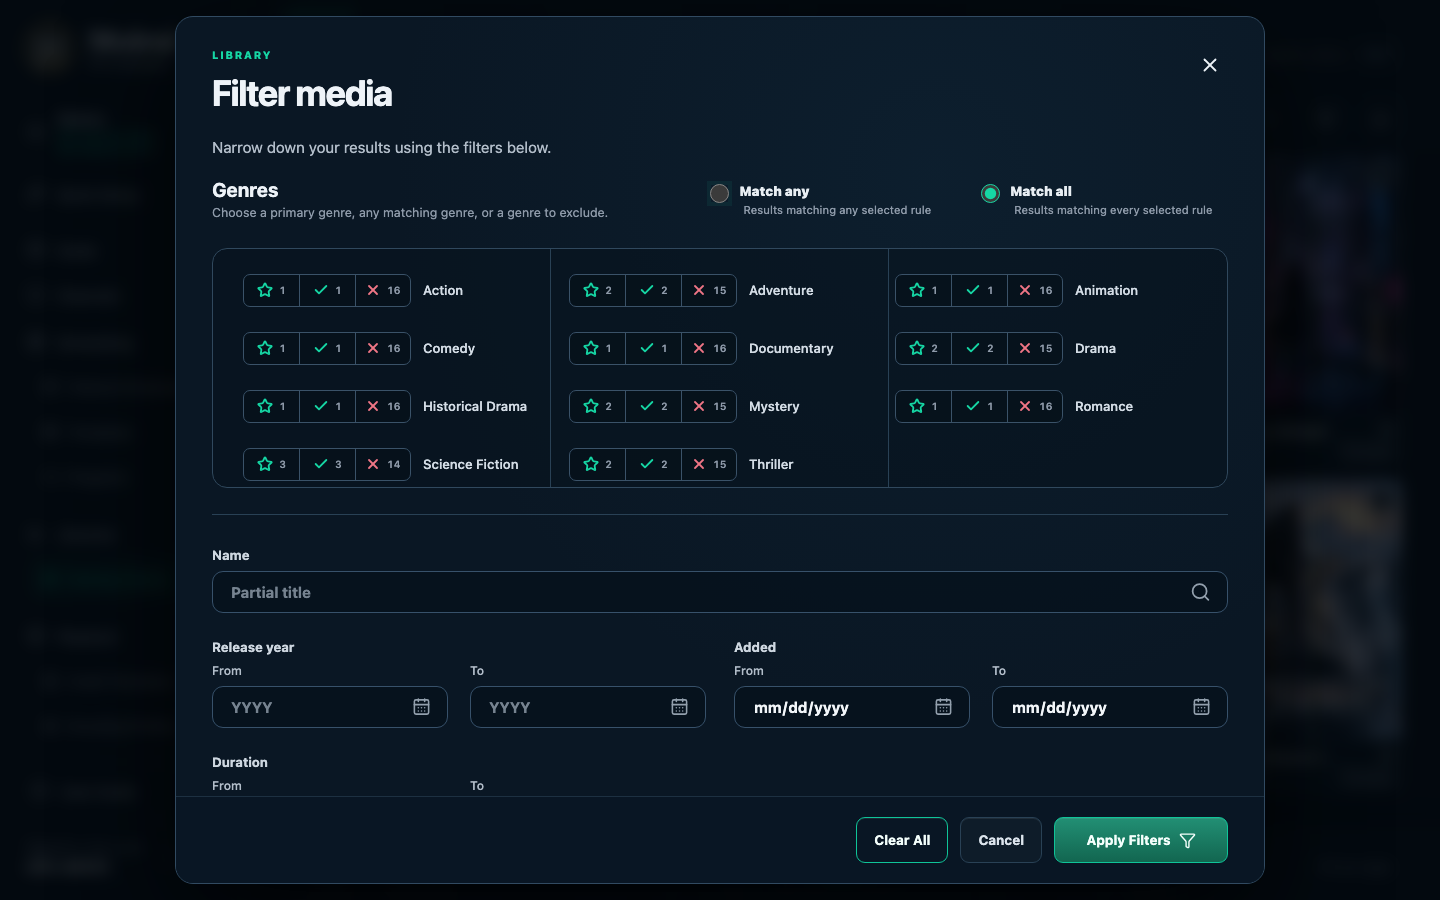
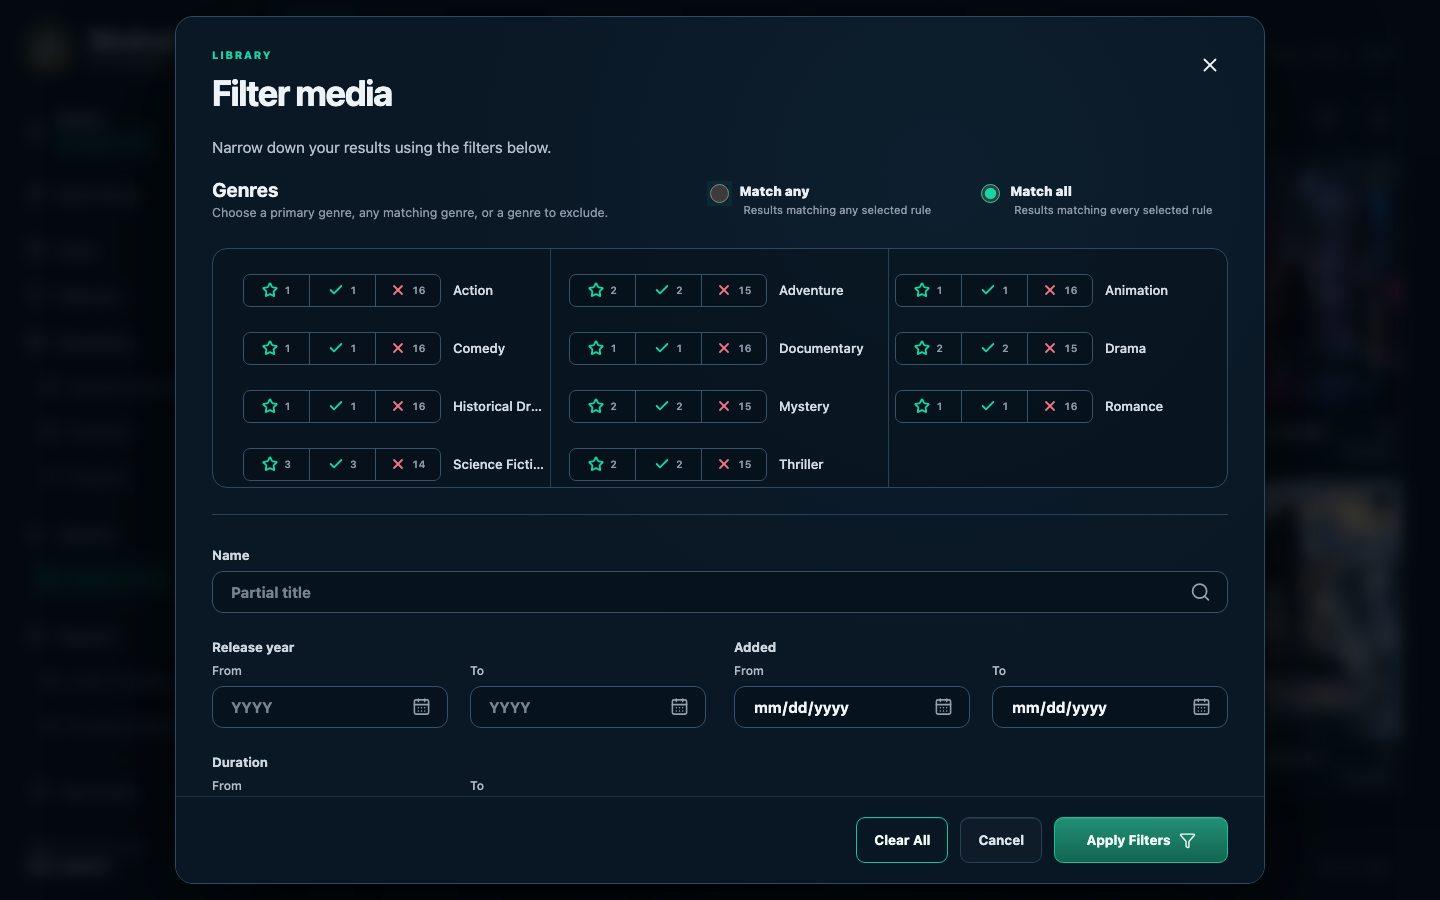
Normalize genre filter numbers for better layout

diff --git a/apps/web/src/components/library/LibraryFilterModal.vue b/apps/web/src/components/library/LibraryFilterModal.vue
@@ -9,6 +9,7 @@ import { countLabel } from '../../count-label';
 import { useAnimatedDismissal } from '../../motion';
 import {
 	emptyLibraryFilterDraft,
+	genreCountLabel,
 	type LibraryFilterDraft,
 } from './library-filter';
 
@@ -223,9 +224,9 @@ onUnmounted(() => genreCountsController?.abort());
 							<template v-for="genre in displayedGenres" :key="genre.key">
 								<div class="genre-choice-row">
 									<div class="genre-rule-split" role="group" :aria-label="`${genre.name} rule`">
-										<button type="button" :class="{ active: genreRule(genre.key) === 'primary' }" :disabled="genreRuleDisabled(genre.key)" :aria-pressed="genreRule(genre.key) === 'primary'" :aria-label="genreActionLabel(genre, 'primary')" title="Primary" @click="toggleGenreRule(genre.key, 'primary')"><Star :size="16" aria-hidden="true" /><small>{{ genre.primaryCount.toLocaleString() }}</small></button>
-										<button type="button" :class="{ active: genreRule(genre.key) === 'include' }" :disabled="genreRuleDisabled(genre.key)" :aria-pressed="genreRule(genre.key) === 'include'" :aria-label="genreActionLabel(genre, 'include')" title="Has" @click="toggleGenreRule(genre.key, 'include')"><Check :size="16" aria-hidden="true" /><small>{{ genre.count.toLocaleString() }}</small></button>
-										<button type="button" class="exclude" :class="{ active: genreRule(genre.key) === 'exclude' }" :disabled="localDraft.genreMatch === 'any' || genreRuleDisabled(genre.key)" :aria-pressed="genreRule(genre.key) === 'exclude'" :aria-label="genreActionLabel(genre, 'exclude')" title="Doesn’t Have" @click="toggleGenreRule(genre.key, 'exclude')"><X :size="16" aria-hidden="true" /><small>{{ genre.excludeCount?.toLocaleString() ?? '—' }}</small></button>
+										<button type="button" :class="{ active: genreRule(genre.key) === 'primary' }" :disabled="genreRuleDisabled(genre.key)" :aria-pressed="genreRule(genre.key) === 'primary'" :aria-label="genreActionLabel(genre, 'primary')" title="Primary" @click="toggleGenreRule(genre.key, 'primary')"><Star :size="16" aria-hidden="true" /><small>{{ genreCountLabel(genre.primaryCount) }}</small></button>
+										<button type="button" :class="{ active: genreRule(genre.key) === 'include' }" :disabled="genreRuleDisabled(genre.key)" :aria-pressed="genreRule(genre.key) === 'include'" :aria-label="genreActionLabel(genre, 'include')" title="Has" @click="toggleGenreRule(genre.key, 'include')"><Check :size="16" aria-hidden="true" /><small>{{ genreCountLabel(genre.count) }}</small></button>
+										<button type="button" class="exclude" :class="{ active: genreRule(genre.key) === 'exclude' }" :disabled="localDraft.genreMatch === 'any' || genreRuleDisabled(genre.key)" :aria-pressed="genreRule(genre.key) === 'exclude'" :aria-label="genreActionLabel(genre, 'exclude')" title="Doesn’t Have" @click="toggleGenreRule(genre.key, 'exclude')"><X :size="16" aria-hidden="true" /><small>{{ genreCountLabel(genre.excludeCount) }}</small></button>
 									</div>
 									<span class="genre-choice-name">{{ genre.name }}</span>
 								</div>

diff --git a/tests/apps/web/src/library-filter.test.ts b/tests/apps/web/src/library-filter.test.ts
@@ -6,6 +6,7 @@ import {
 	emptyCatalogProgramItemFilter,
 	emptyLibraryFilterDraft,
 	libraryFilterDraft,
+	genreCountLabel,
 } from '@web/components/library/library-filter';
 
 describe('shared library query filter controls', () => {
@@ -92,5 +93,15 @@ describe('shared library query filter controls', () => {
 			'Rating: 7.5+',
 			'Added: 2026-01-02–2026-03-04',
 		]);
+	});
+});
+
+describe('genre count labels', () => {
+	it.each([
+		[null, '—'], [0, '0'], [1, '1'], [999, '999'],
+		[1000, '1.0k'], [1049, '1.0k'], [1050, '1.1k'], [1149, '1.1k'],
+		[1150, '1.2k'], [9950, '10.0k'], [100000, '100.0k'],
+	] as const)('formats %s as %s', (count, expected) => {
+		expect(genreCountLabel(count)).toBe(expected);
 	});
 });

diff --git a/apps/web/src/components/library/library-filter.ts b/apps/web/src/components/library/library-filter.ts
@@ -27,6 +27,15 @@ export interface LibraryFilterDraft {
 	director: string;
 }
 
+/** Show genre totals exactly below 1,000, otherwise as thousands rounded to the nearest hundred. */
+export function genreCountLabel(count: number | null): string {
+	if (count === null) {
+		return '—';
+	}
+
+	return count < 1000 ? String(count) : `${(Math.round(count / 100) / 10).toFixed(1)}k`;
+}
+
 /** Create an independent empty filter draft with the default Match all genre behavior. */
 export function emptyLibraryFilterDraft(): LibraryFilterDraft {
 	return {

diff --git a/apps/web/src/styles/_library-filter.scss b/apps/web/src/styles/_library-filter.scss
@@ -295,7 +295,7 @@
 }
 
 .genre-rule-split {
-	min-width: 168px;
+	width: 198px;
 	max-width: 100%;
 	flex: 0 0 auto;
 	display: grid;

diff --git a/docs/technical-outline.md b/docs/technical-outline.md
@@ -1448,7 +1448,9 @@ them without rendering every card on the page.
 
 The library filter presents genre rules first and defaults to Match all, where each genre can be
 neutral, primary, required, or explicitly disallowed. Its contextual facets predict the result of
-replacing that genre’s rule with each action. Match any accepts either primary or inclusion rules
+replacing that genre’s rule with each action. Fixed-width genre controls keep names aligned; counts
+below 1,000 remain exact and larger counts display thousands rounded to the nearest hundred, while
+accessible labels retain exact totals. Match any accepts either primary or inclusion rules
 and shows static library totals; switching to it clears exclusions. Primary genre keys are indexed
 on media items, using the first valid source genre unless a Moirai-specific NFO
 `<genre primary="true">` marker overrides it. Multiple markers use the first valid marked genre.
